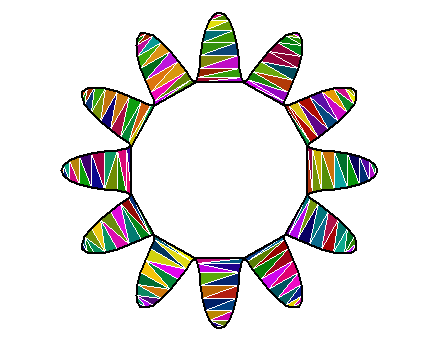
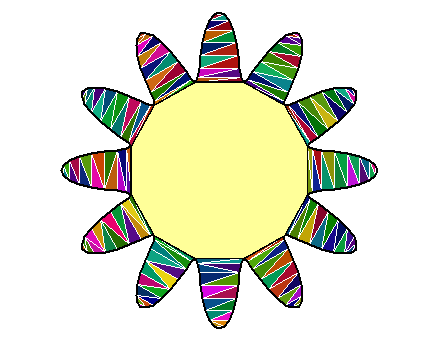
filled sun curve interior

Changed region(s): [[0.1481, 0.0293, 0.8588, 0.9677]]

diff --git a/README.md b/README.md
@@ -202,6 +202,7 @@ plotDelaunay(
   fillcolor = "random", luminosity = "dark", col_edges = "white", 
   axes = FALSE, xlab = NA, ylab = NA, asp = 1
 )
+polygon(xy[inner, ], col = "#ffff99")
 par(opar)
 ```
 
